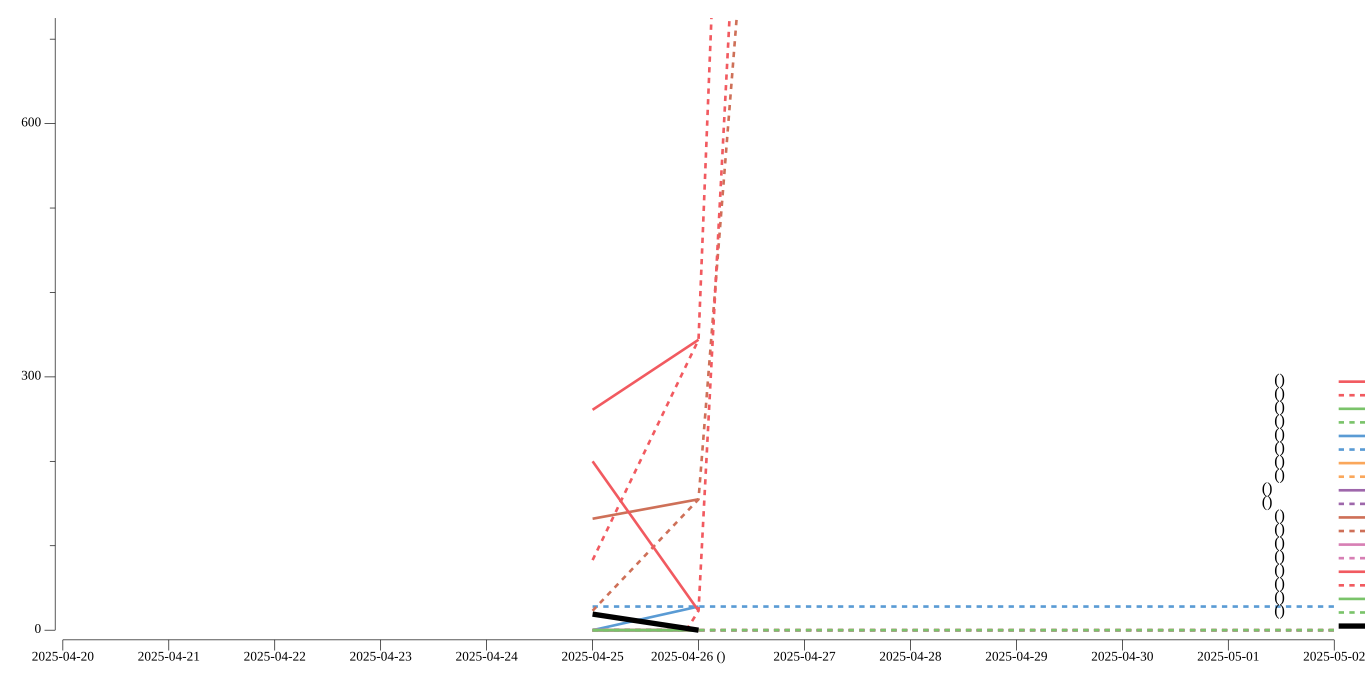
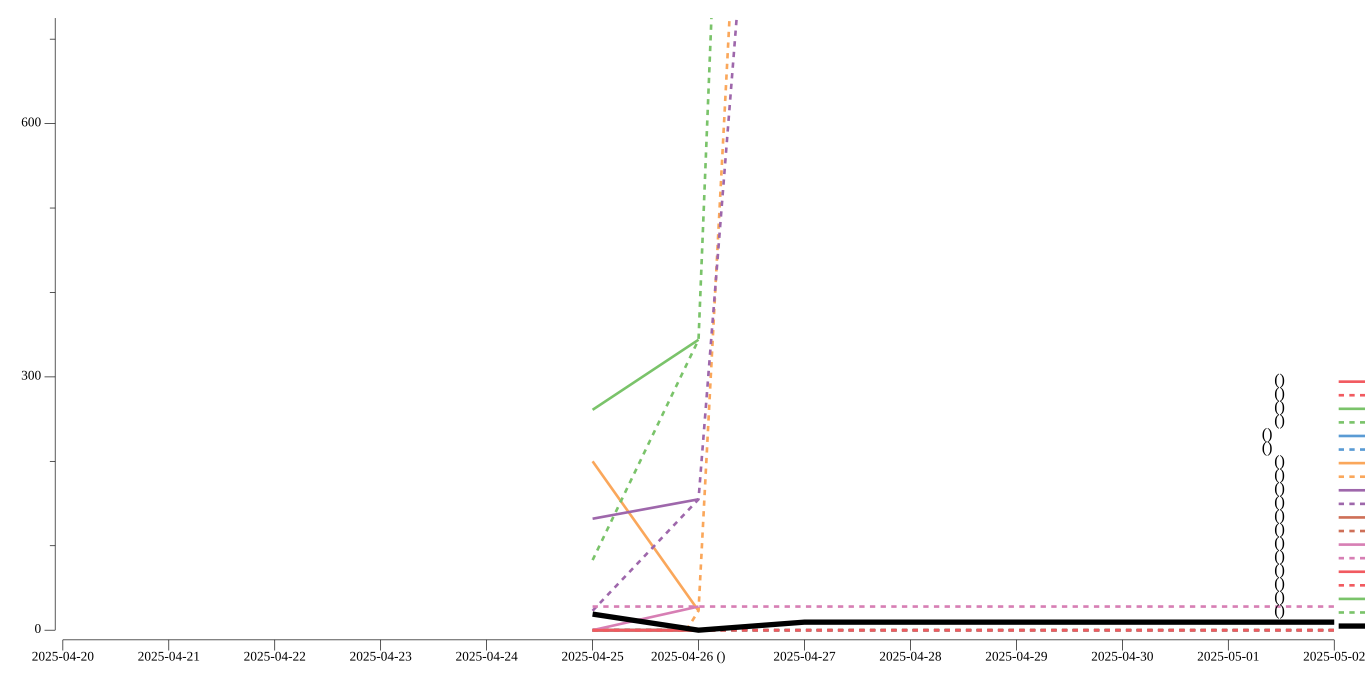
자동 집중도 데이터: 2025-04-26

diff --git a/internal/analyzer/plot.go b/internal/analyzer/plot.go
@@ -303,17 +303,16 @@ func DrawFocusTrends(points, regressionLines map[string]plotter.XYs, evalText, w
 				}
 			}
 		}
-		// 미래 구간(오늘 이후) 회귀선 예측 추가 (aggregate는 선형 보간, 기울기 2배)
+		// 미래 구간(오늘 이후) 회귀선 예측: 이전 aggregate Y값의 평균 사용
 		if len(newAgg) > 0 {
-			lastY := newAgg[len(newAgg)-1].Y
-			var delta float64
-			if len(newAgg) > 1 {
-				delta = (newAgg[len(newAgg)-1].Y - newAgg[len(newAgg)-2].Y) * 2
+			var meanY float64
+			for _, pt := range newAgg {
+				meanY += pt.Y
 			}
+			meanY = meanY / float64(len(newAgg))
 			for i := 7; i < 13; i++ { // x=7~12: 미래
 				if x, ok := dateToX[dates[i]]; ok {
-					predY := lastY + delta*float64(i-6)
-					newAgg = append(newAgg, plotter.XY{X: x, Y: predY})
+					newAgg = append(newAgg, plotter.XY{X: x, Y: meanY})
 				}
 			}
 			aggLine, err := plotter.NewLine(newAgg)
